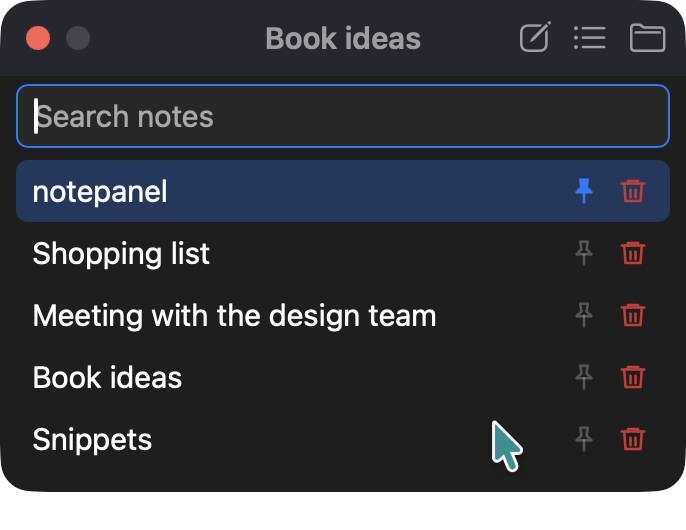
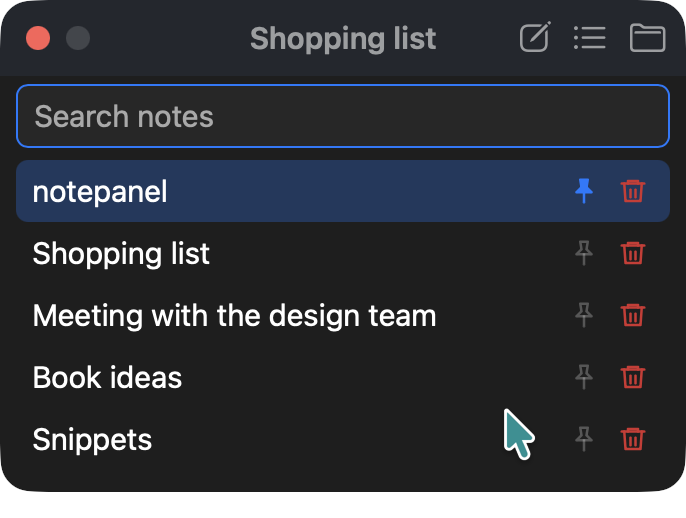
🔧 MAINTAIN:

diff --git a/README.md b/README.md
@@ -7,7 +7,8 @@ using.
 Each note is a plain Markdown file in a folder you choose, so you can also open your notes in any
 other editor, sync them or back them up as you like.
 
-<img src="docs/images/panel.png" width="480" alt="The notepanel panel over Safari in full screen">
+<img src="docs/img/note.png" width="480" alt="note">
+<img src="docs/img/list.png" width="480" alt="note">
 
 ## Features
 
